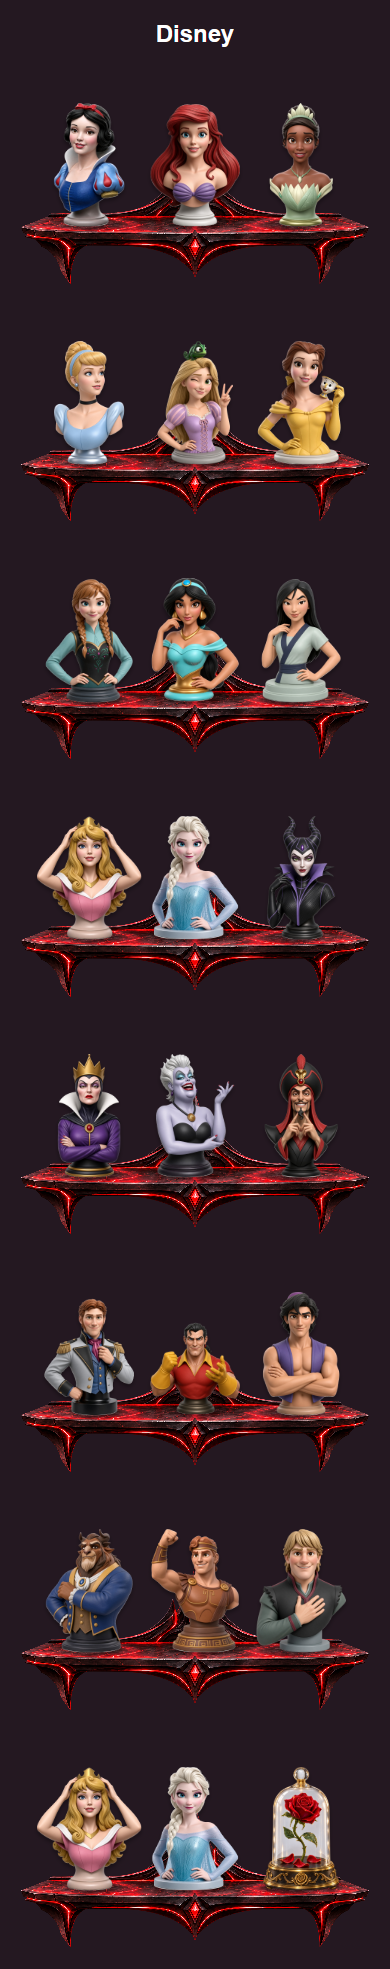
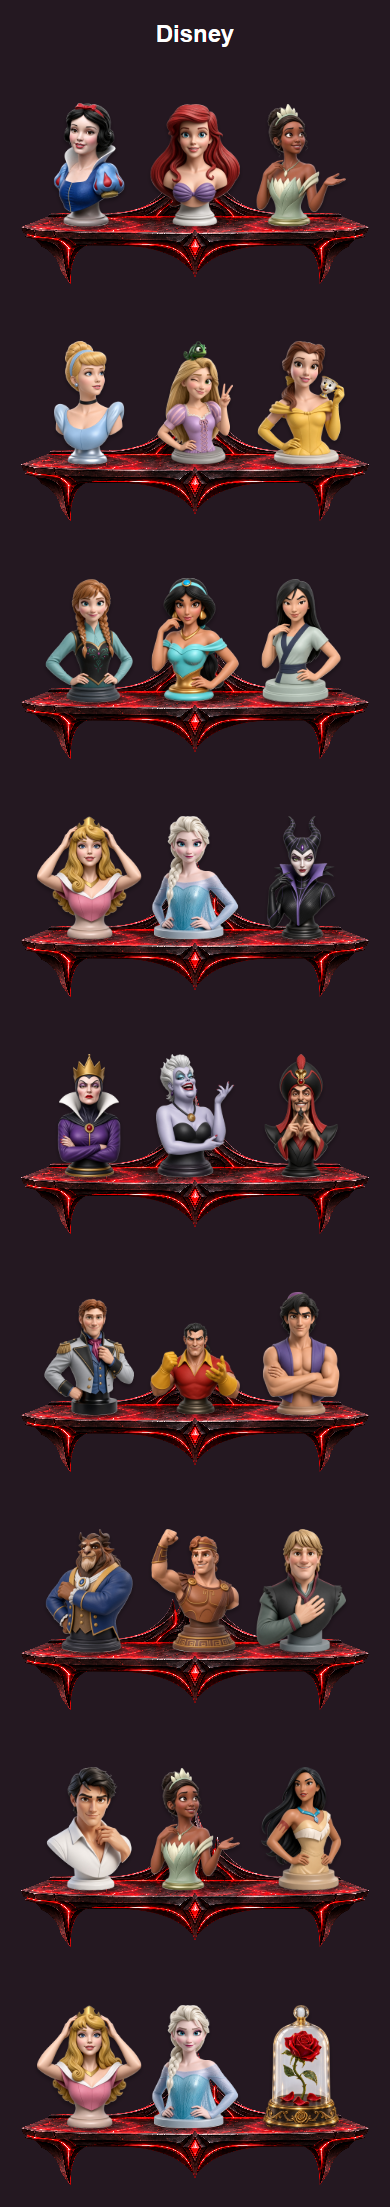
Add Prince Eric and Pocahontas busts and update Tiana artwork

diff --git a/work/verify-disney-busts.js b/work/verify-disney-busts.js
@@ -3,17 +3,19 @@ const {chromium}=require('playwright'),sharp=require('sharp'),shelf=require('../
 (async()=>{
  const ids=["disney-snow-white-bust","disney-ariel-bust","disney-tiana-bust","disney-cinderella-bust","disney-rapunzel-bust","disney-belle-bust","disney-anna-bust","disney-jasmine-bust","disney-mulan-bust","disney-aurora-bust"];
  ids.push(...["disney-elsa-bust","disney-maleficent-bust","disney-evil-queen-bust","disney-ursula-bust","disney-jafar-bust","disney-hans-bust","disney-gaston-bust","disney-aladdin-bust","disney-beast-bust","disney-hercules-bust","disney-kristoff-bust"]);
- const selections=Array.from({length:7},(_,n)=>ids.slice(n*3,n*3+3)).concat([['disney-aurora-bust','disney-elsa-bust','enchanted-rose']]).map(slots=>({enabled:true,theme:'crimson',slots}));
+ ids.push('disney-prince-eric-bust','disney-pocahontas-bust');
+ const assetPath=id=>'assets/shelf-'+id+(id==='disney-tiana-bust'?'-v2':'')+'.png';
+ const selections=Array.from({length:7},(_,n)=>ids.slice(n*3,n*3+3)).concat([['disney-prince-eric-bust','disney-tiana-bust','disney-pocahontas-bust'],['disney-aurora-bust','disney-elsa-bust','enchanted-rose']]).map(slots=>({enabled:true,theme:'crimson',slots}));
  for(const selection of selections){assert(shelf.valid(selection));assert.deepEqual(shelf.clean(selection),selection);}
  for(const id of ids){
   assert.equal(shelf.items.filter(i=>i.id===id).length,1);
   assert.equal(shelf.items.find(i=>i.id===id).category,'Disney');
-  const {data,info}=await sharp('assets/shelf-'+id+'.png').ensureAlpha().raw().toBuffer({resolveWithObject:true});
+  const {data,info}=await sharp(assetPath(id)).ensureAlpha().raw().toBuffer({resolveWithObject:true});
   assert.equal(data[3],0);assert(info.width>=375);
  }
  assert.deepEqual(shelf.clean({enabled:true,theme:'crimson',slots:['elsa','beast','enchanted-rose']}).slots,['none','none','enchanted-rose']);
  for(const id of ['anna','ariel','belle','jasmine'])assert.equal(shelf.clean({enabled:true,slots:[id,'horse','planet']}).slots[0],'disney-'+id+'-bust');
- assert.equal(shelf.items.filter(i=>i.category==='Disney').length,22);
+ assert.equal(shelf.items.filter(i=>i.category==='Disney').length,24);
  for(const id of ['elsa','beast','anna','ariel','belle','jasmine'])assert(!shelf.items.some(i=>i.id===id));
  const browser=await chromium.launch({executablePath:'C:/Program Files (x86)/Google/Chrome/Application/chrome.exe',headless:true});
  try{
@@ -43,18 +45,18 @@ const {chromium}=require('playwright'),sharp=require('sharp'),shelf=require('../
      if(await page.locator('#shelfNext').isDisabled())break;
      await page.locator('#shelfNext').click();
     }while(true);
-    assert.equal(names.length,22);assert.deepEqual(names,[...names].sort((a,b)=>a.localeCompare(b)));
+    assert.equal(names.length,24);assert.deepEqual(names,[...names].sort((a,b)=>a.localeCompare(b)));
     for(const [slot,id] of selection.slots.entries()){
      await page.locator('#shelfPreview [data-shelf-slot="'+slot+'"]').click();
      await page.locator('#shelfSearch').fill(shelf.items.find(i=>i.id===id).name);
      const card=page.locator('[data-shelf-item="'+id+'"]');assert(await card.isVisible());
-     assert.equal(await card.locator('image').getAttribute('href'),'assets/shelf-'+id+'.png');await card.click();
+     assert.equal(await card.locator('image').getAttribute('href'),assetPath(id));await card.click();
     }
     await page.screenshot({path:`work/disney-busts-chooser-${width}.png`});
     await page.locator('#saveShelf').click();
     assert.deepEqual(await page.evaluate(()=>window.savedShelf),selection);
    }
   }
-  console.log('All 21 Disney busts and Enchanted Rose passed catalog, alpha, save, search/category, alphabetical order, baseline, non-overlap and mobile/desktop checks; Aurora size verified.');
+  console.log('All 23 Disney busts and Enchanted Rose passed catalog, alpha, save, search/category, alphabetical order, baseline, non-overlap and mobile/desktop checks; Aurora size and updated Tiana verified.');
  }finally{await browser.close();}
 })().catch(e=>{console.error(e);process.exitCode=1});

diff --git a/collectible-shelf.js b/collectible-shelf.js
@@ -108,6 +108,7 @@
   rows.push(['JDM Model Cars', ['jdm-purple-green-supra','Purple & Green Supra'], ['jdm-anime-supra','Purple Anime Supra'], ['jdm-red-skyline','Red LBWK Skyline'], ['jdm-blue-skyline','Blue Skyline GT-R'], ['jdm-black-red-nsx','Black & Red NSX'], ['jdm-neon-gtr','Neon Anime GT-R']]);
   rows.push(['Animal Friends', ['highland-pumpkin','Highland Cow Pumpkin Glow'], ['highland-sunflower-bow','Highland Cow Sunflower Bow'], ['highland-sunflower-bouquet','Highland Cow Sunflower Bouquet'], ['highland-lavender-basket','Highland Cow Lavender Basket'], ['highland-lavender-bow','Highland Cow Lavender Bow']]);
   rows.push(['Disney', ['disney-elsa-bust','Elsa Bust'], ['disney-maleficent-bust','Maleficent Bust'], ['disney-evil-queen-bust','Evil Queen Bust'], ['disney-ursula-bust','Ursula Bust'], ['disney-jafar-bust','Jafar Bust'], ['disney-hans-bust','Hans Bust'], ['disney-gaston-bust','Gaston Bust'], ['disney-aladdin-bust','Aladdin Bust'], ['disney-beast-bust','Beast Bust'], ['disney-hercules-bust','Hercules Bust'], ['disney-kristoff-bust','Kristoff Bust']]);
+  rows.push(['Disney', ['disney-prince-eric-bust','Prince Eric Bust'], ['disney-pocahontas-bust','Pocahontas Bust']]);
   const items = rows.flatMap(([category, ...entries], row) => entries.map(([id, name], column) => ({ id, name, category: id === 'tanjiro' ? 'Anime' : ['cross','church'].includes(id) ? 'Christian Faith' : category, row, column })));
   // Individual artwork bounds avoid neighboring sprites leaking into uneven atlas cells.
   // These are viewport crops only; the original transparent PNG is unmodified.
@@ -126,6 +127,8 @@
   const clean = value => valid(value) ? { enabled: value.enabled, slots: value.slots.map(id => replacements[id] || id), theme:value.theme || 'crimson' } : { enabled: true, slots: ['horse', 'crystal', 'planet'], theme:'crimson' };
   const name = id => items.find(item => item.id === id)?.name || 'Empty spot';
   const standalone = {
+    'disney-prince-eric-bust': {source:'assets/shelf-disney-prince-eric-bust.png',width:1408,height:1408,bounds:[253,44,889,1290]},
+    'disney-pocahontas-bust': {source:'assets/shelf-disney-pocahontas-bust.png',width:1600,height:1200,bounds:[414,26,730,1124]},
     'disney-elsa-bust': {source:'assets/shelf-disney-elsa-bust.png',width:1408,height:1408,bounds:[317,44,919,1318]},
     'disney-maleficent-bust': {source:'assets/shelf-disney-maleficent-bust.png',width:1408,height:1408,bounds:[322,10,757,1365]},
     'disney-evil-queen-bust': {source:'assets/shelf-disney-evil-queen-bust.png',width:1408,height:1408,bounds:[370,21,688,1348]},
@@ -139,7 +142,7 @@
     'disney-kristoff-bust': {source:'assets/shelf-disney-kristoff-bust.png',width:1408,height:1408,bounds:[237,44,947,1302]},
     'disney-snow-white-bust': {source:'assets/shelf-disney-snow-white-bust.png',width:1408,height:1408,bounds:[369,60,728,1268]},
     'disney-ariel-bust': {source:'assets/shelf-disney-ariel-bust.png',width:1408,height:1408,bounds:[286,88,861,1173]},
-    'disney-tiana-bust': {source:'assets/shelf-disney-tiana-bust.png',width:1408,height:1408,bounds:[376,47,666,1295]},
+    'disney-tiana-bust': {source:'assets/shelf-disney-tiana-bust-v2.png',width:1408,height:1408,bounds:[365,40,955,1304]},
     'disney-cinderella-bust': {source:'assets/shelf-disney-cinderella-bust.png',width:1408,height:1408,bounds:[344,29,764,1338]},
     'disney-rapunzel-bust': {source:'assets/shelf-disney-rapunzel-bust.png',width:1408,height:1408,bounds:[289,26,801,1305]},
     'disney-belle-bust': {source:'assets/shelf-disney-belle-bust.png',width:1408,height:1408,bounds:[221,50,918,1300]},

diff --git a/index.html b/index.html
@@ -25,7 +25,7 @@
 
   <script src="launchpad-scenes.js?v=20260927-patriotic-v45"></script>
   <script src="profile-banners.js?v=20260928-more-sets-v10"></script>
-<script src="collectible-shelf.js?v=20260929-disney-expansion-v55"></script>
+<script src="collectible-shelf.js?v=20260929-disney-eric-tiana-pocahontas-v56"></script>
   <script src="app.js?v=20260928-more-sets-v96"></script>
   <script src="colt-assistant.js?v=20260905-lazy-artwork-v2"></script>
   <script src="colt-radio.js?v=20260927-country-afropulse-v27"></script>
